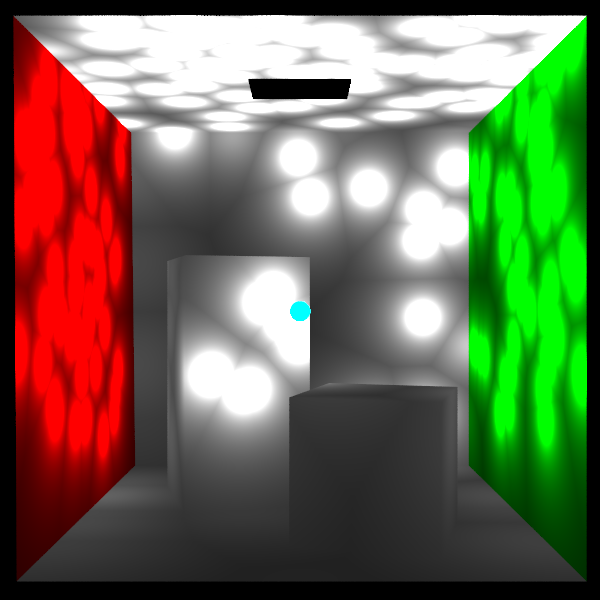
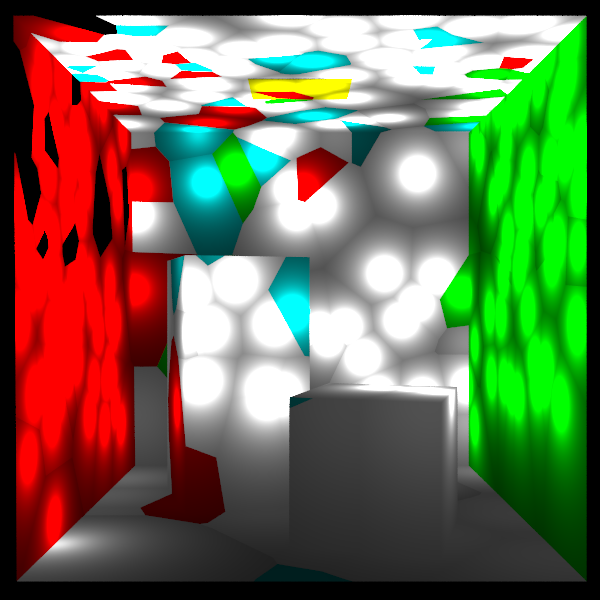
Specular reflections done

diff --git a/src/ray/renderer/PhotonMapRenderer.java b/src/ray/renderer/PhotonMapRenderer.java
@@ -156,14 +156,32 @@ public class PhotonMapRenderer implements Renderer {
 					photon.setPosition(sri_point);
 					kdt.insert(surface_and_ray_interaction_point,photon);
 
+					//Create a ray in a random direction sampled over a hemisphere
+					Point2 directSeed = new Point2(); 
+					directSeed.set(randGenerator.nextDouble(), randGenerator.nextDouble());
+					Vector3 randomDir = new Vector3();
+					Geometry.squareToHemisphere(directSeed, randomDir);
+					randomDir.normalize();
+
+					//Reorient the direction to have its base aligned to the tangent plane of the surface
+					iRec.frame.canonicalToFrame(randomDir);
+
 					//Cast another ray in a random direction in the hemisphere above the surface.
-					/*
-					Ray diffRay = new Ray(sri_point,currlight.sampleDirection());
+					Ray diffRay = new Ray(sri_point, randomDir);
 					diffRay.makeOffsetRay();
-					Photon diffPhoton = new Photon(currlight.power);
-					diffPhoton.power.scale(1.0/photonsPerLight);
+
+					//Readjust power to account for probability of survival
+					Color outPower = new Color(photon.power);
+					outPower.invScale( pDiff);
+
+					BSDF bsdf = iRec.surface.getMaterial().getBSDF(iRec);
+					Color outDiff = new Color();
+					bsdf.evaluate(iRec.frame,null,null,outDiff);
+					outPower.scale(outDiff);
+
+					//Finally create a photon and cast it.
+					Photon diffPhoton = new Photon( outPower );
 					castPhoton(diffRay,scene, diffPhoton);
-					*/
 					
 				}
 					//Transmission
@@ -193,7 +211,7 @@ public class PhotonMapRenderer implements Renderer {
 		// find if the ray intersect with any surface
 		IntersectionRecord iRec = new IntersectionRecord();
 
-		int numNear = 1;
+		int numNear = 50;
 		
 		if (scene.getFirstIntersection(iRec, ray)) {
 			

diff --git a/src/ray/misc/Color.java b/src/ray/misc/Color.java
@@ -105,6 +105,7 @@ public class Color {
     this.b /= rhs.b;
   }
 
+
   /**
    * Scales each compoenent of this color by rhs.
    * @param rhs The scale value to use.
@@ -114,6 +115,17 @@ public class Color {
     this.r *= rhs;
     this.g *= rhs;
     this.b *= rhs;
+  }
+
+  /**
+   * Scales each compoenent of this color by rhs.
+   * @param rhs The scale value to use.
+   */
+  public void invScale(double rhs) {
+
+    this.r /= rhs;
+    this.g /= rhs;
+    this.b /= rhs;
   }
 
   /**
